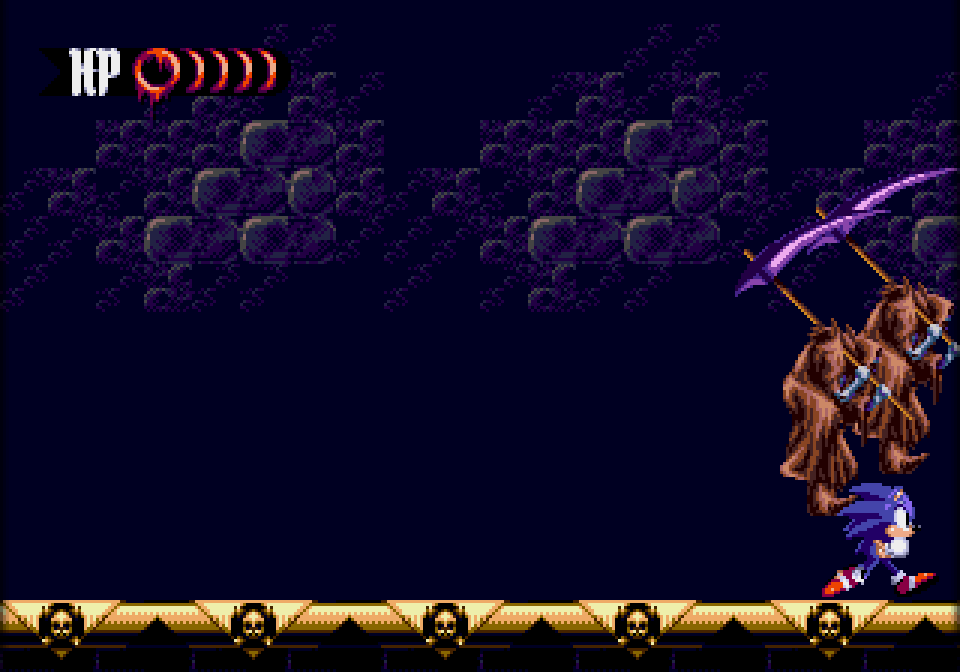
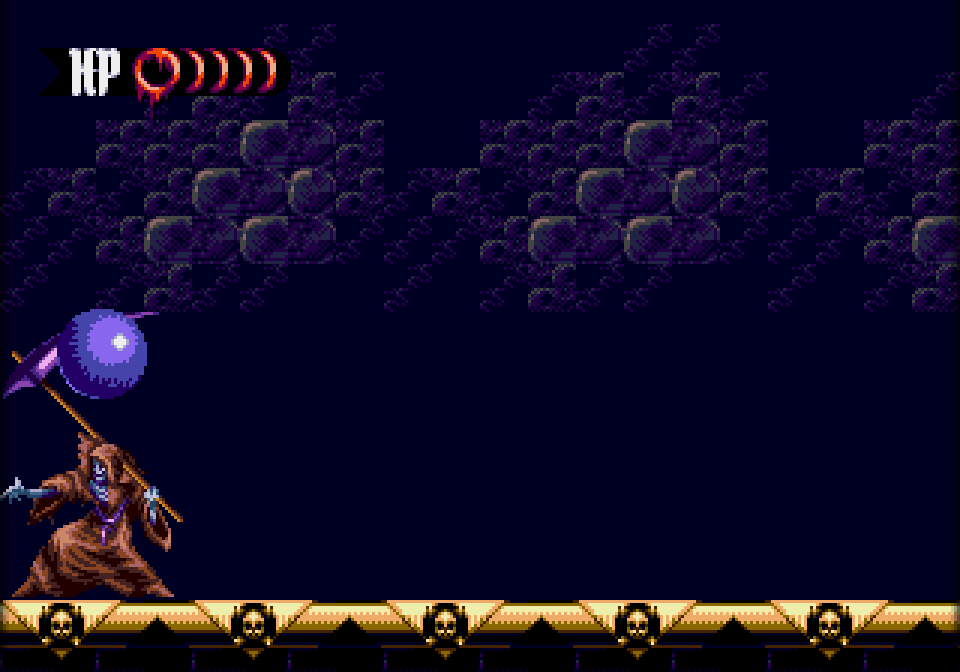
README: boss shots with Sonic in the fight, not at the screen edge
Claude-Session: https://claude.ai/code/session_018VRVMbGysngv9k8aVMTFmv

Changed region(s): [[0.75, 0.25, 1.0, 0.9062], [0.0, 0.4375, 0.1875, 0.9062]]

diff --git a/README.md b/README.md
@@ -33,8 +33,8 @@ The download buttons always get the latest release; older ones are on the [relea
 
 | | | |
 |---|---|---|
-| ![The Forest of Decay boss](docs/screenshots/boss-forest.png) | ![Death](docs/screenshots/boss-death.png) | ![Metal Sonic](docs/screenshots/boss-metal.png) |
-| The Forest of Decay boss | Death | Metal Sonic |
+| ![The Forest of Decay boss](docs/screenshots/boss-forest.png) | ![Death](docs/screenshots/boss-death.png) | ![Shaft](docs/screenshots/boss-shaft.png) |
+| The Forest of Decay boss | Death | Shaft |
 
 Bosses and cutscenes close in to the original 320×224 picture, as the game was built for it.
 
